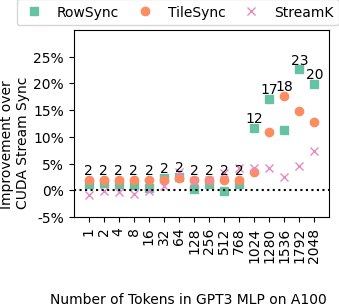
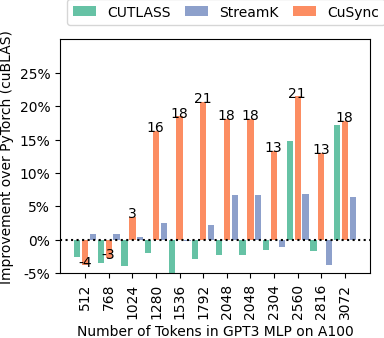
GPT3 A100 results and plot

Changed region(s): [[0.0, 0.0, 1.0, 1.0], [0.2655, 0.8529, 0.295, 0.9118], [0.0295, 0.0, 0.059, 0.0294]]

diff --git a/src/ml-bench/plots/plotGPT.py b/src/ml-bench/plots/plotGPT.py
@@ -115,6 +115,8 @@ while rowIdx < len(data):
             tileOverlap += [float(row[overlapInd])]
         elif row[syncTypeInd] == 'stridedsync':
             stridedTileOverlap += [float(row[overlapInd])]
+        elif row[syncTypeInd] == 'torch':
+            torchT += [float(row[torchInd])]
         rowIdx += 1
         i += 1
 
@@ -127,7 +129,7 @@ if __name__ == "__main__":
     # secFactor = 1e3 if (secs == "ms") else 1e6
     torchT = np.array(torchT)
     baseline = np.array(baseline)
-    ind = np.arange(len(baseline))
+    ind = np.arange(len(baseline)) * 3
     matmul1 = np.array(matmul1)
     matmul2 = np.array(matmul2)
     softmax = np.array(softmax)
@@ -139,19 +141,21 @@ if __name__ == "__main__":
     stdevTileOverlap = np.array(stdevTileOverlap)
     analyticalOverlapTimes = np.array(analyticalOverlapTimes)
 
-    cutlassSpeedup = (baseline - baseline)/baseline*100
-    rowSpeedup = (baseline - rowOverlap)/baseline*100
-    tileSpeedup = (baseline - tileOverlap)/baseline*100
-    streamKSpeedup = (baseline - streamK)/baseline*100
+    cutlassSpeedup = (torchT - baseline)/torchT*100
+    rowSpeedup = (torchT - rowOverlap)/torchT*100
+    tileSpeedup = (torchT - tileOverlap)/torchT*100
+    streamKSpeedup = (torchT - streamK)/torchT*100
     
     print(streamKSpeedup)
-    for i in range(len(rowSpeedup)):
-        if rowSpeedup[i] < -2:
-            rowSpeedup[i]= -2
-        if streamKSpeedup[i] < -5:
-            streamKSpeedup[i] = (0.1 * i)
-        if tileSpeedup[i] < 0:
-            tileSpeedup[i] = 2
+    # for i in range(len(rowSpeedup)):
+    #     if rowSpeedup[i] < -2:
+    #         rowSpeedup[i]= -2
+    #     if streamKSpeedup[i] < -5:
+    #         streamKSpeedup[i] = (0.1 * i)
+    #     if tileSpeedup[i] < 0:
+    #         tileSpeedup[i] = 2
+    
+    cusyncSpeedup = np.maximum(rowSpeedup, tileSpeedup)
 
     # print(rowSpeedup)
     # print(tileSpeedup)
@@ -159,24 +163,27 @@ if __name__ == "__main__":
 
     # analyticalSpeedup = baseline/analyticalOverlapTimes
     fig, ax2 = plt.subplots(1,1,sharex=True)
-    p1 = ax2.plot(ind, rowSpeedup,'s',color=colors[0])
-    p2 = ax2.plot(ind, tileSpeedup,'o',color=colors[1])
+    p0 = ax2.bar(ind, cutlassSpeedup, color=colors[0])
+    p1 = ax2.bar(ind+1, cusyncSpeedup,color=colors[1])
+    p2 = ax2.bar(ind+2, streamKSpeedup,color=colors[2])
 
-    if attention_or_mlp == "attention":
-        stridedTileSpeedup = (baseline - stridedTileOverlap)/baseline * 100
-        p3 = ax2.plot(ind, stridedTileSpeedup,'v',color=colors[2])
-        print(stridedTileSpeedup)
-        for i, f in enumerate(np.maximum(np.maximum(rowSpeedup, tileSpeedup), stridedTileSpeedup)):
-            ax2.text(i, f+1, "%.0f"%round(f, 0), color = 'black', ha = 'center', rotation=0)
-    else:
-        for i, f in enumerate(np.maximum(rowSpeedup, tileSpeedup)):
-            ax2.text(i, f+1, "%.0f"%round(f,0), color = 'black', ha = 'center', rotation=0)
-    p4 = ax2.plot(ind, streamKSpeedup, 'x',color=colors[3])
+    # if attention_or_mlp == "attention":
+    #     stridedTileSpeedup = (baseline - stridedTileOverlap)/baseline * 100
+    #     p3 = ax2.plot(ind, stridedTileSpeedup,'v',color=colors[2])
+    #     print(stridedTileSpeedup)
+    #     for i, f in enumerate(np.maximum(np.maximum(rowSpeedup, tileSpeedup), stridedTileSpeedup)):
+    #         ax2.text(i, f+1, "%.0f"%round(f, 0), color = 'black', ha = 'center', rotation=0)
+    # else:
+    # for i, f in enumerate(cusyncSpeedup):
+    #     ax2.text(i*2+2, f+1, "%.0f"%round(f,0), color = 'black', ha = 'center', rotation=0)
+    
+    # p4 = ax2.plot(ind, streamKSpeedup, 'x',color=colors[3])
  
     # p3 = ax2.plot(list(range(0, len(data)//2)), analyticalSpeedup)
     
-    # for bar1, d in zip(p3, fastkrontimes):
-    #     ax2.text(bar1.get_x()+bar1.get_width()/2, (bar1.get_height())/2, "%.2f %s"%(d, secs), color = 'black', ha = 'center', va = 'center', rotation=90, fontsize='large')
+    for bar1, d in zip(p1, cusyncSpeedup):
+        ax2.text(bar1.get_x()+bar1.get_width()/2-0.05, bar1.get_height()+0.5, "%.0f"%(round(d,0)), 
+        color = 'black', ha = 'center', va = 'center', rotation=0)
 
     # for bar1, speedup in zip(p3, fastkronspeedup):
     #     ax2.text(bar1.get_x()+bar1.get_width()/2+0.04, bar1.get_height()+0.05, r"%.2f$\times$"%(1/speedup), color = 'black', ha = 'center', va = 'center', rotation=0, fontsize='large')
@@ -184,8 +191,8 @@ if __name__ == "__main__":
     #     plt.ylim(0.6, 1.3)
     #     plt.yticks([0.6+0.1*i for i in range(0, 7)])
     # else:
-    ax2.margins(0.02)
-    max_speedup = max([np.amax(rowSpeedup), np.amax(tileSpeedup), np.amax(streamKSpeedup)])
+    # ax2.margins(0.02)
+    max_speedup = max([np.amax(cusyncSpeedup), np.amax(streamKSpeedup)])
     max_speedup = int(((max_speedup+10-1)//10)*10)
     plt.ylim(-5, max_speedup)
     plt.yticks(ticks=[-5+5*i for i in range(0, max_speedup//5+1)],
@@ -193,21 +200,21 @@ if __name__ == "__main__":
     # ax2.yaxis.set_major_formatter(mtick.PercentFormatter(decimals=None))
     # ax2.set_yticklabels(["%d%%"%(-5+5*i) for i in range(0, 9)])
     # plt.yticks(["%d%(-5+5*i) for i in range(0, 7)])
-    plt.xlim(-1,ind[-1]+1)
+    # plt.xlim(-1,ind[-1]+1)
     # plt.title('Contribution by the teams')
     plt.axhline(0, color='black', ls='dotted')
     # plt.yticks(np.arange(0, 1.25, 0.25))
     if attention_or_mlp == "mlp":
         xt = list(m)
-        plt.xticks(ind, xt, rotation=90)
+        plt.xticks(ind+1, xt, rotation=90)
         
-        plt.ylabel('Improvement over \nCUDA Stream Sync')
-        ax2.get_yaxis().set_label_coords(-0.17,0.4)
+        plt.ylabel('Improvement over PyTorch (cuBLAS)')
+        # ax2.get_yaxis().set_label_coords(-0.17,0.4)
         plt.xlabel("Number of Tokens in %s MLP on A100"%(model.upper()))
-        ax2.get_xaxis().set_label_coords(0.45,-0.4)
-        plt.legend((p1[0], p2[0], p4[0]), 
-                   ('RowSync', 'TileSync', 'StreamK'),
-                   loc='upper left', bbox_to_anchor=(-0.25, 1.20),
+        # ax2.get_xaxis().set_label_coords(0.45,-0.4)
+        plt.legend((p0[0], p2[0], p1[0]),
+                   ('CUTLASS', 'StreamK', 'CuSync'),
+                   loc='upper left', bbox_to_anchor=(0.0, 1.20),
                    ncol=4,columnspacing=1,handlelength=1.7)
     else:
         ax2.get_yaxis().set_visible(False)
@@ -230,10 +237,10 @@ if __name__ == "__main__":
     # if only_one_h:
     # else:
     #     fig.set_size_inches(8.5, 2.5)
-    if attention_or_mlp == "mlp" and model == "gpt3":
-        fig.set_size_inches(3.3, 2.4)
-    else:
-        fig.set_size_inches(3.2, 2.4)
+    # if attention_or_mlp == "mlp" and model == "gpt3":
+    fig.set_size_inches(4, 3)
+    # else:
+    #     fig.set_size_inches(3.2, 2.4)
         # ax.set_xticks([])
     FIGURES_DIR = "./"
     fig.savefig(FIGURES_DIR+pdf_name,bbox_inches='tight',pad_inches=0)

diff --git a/src/ml-bench/transformer/tile_sizes_db.py b/src/ml-bench/transformer/tile_sizes_db.py
@@ -844,16 +844,16 @@ llama_attention_v100 = {
   }
 
 gpt3_mlp_a100 = {
-  2048: {"TileSizes" : [[256, 128, 64, 64, 64, 64], [256, 128, 64, 64, 64, 64]],
+  4096: {"TileSizes" : [[128, 256, 32, 64, 64, 32], [128, 256, 32, 64, 64, 32]],
     "NumStages" : 3,
     "baseline": {"split_ks": [1,1]},
     "rowsync": {
-      "TileSizes" : [[256, 128, 64, 64, 64, 64], [256, 128, 64, 64, 64, 64]],
+      "TileSizes" : [[256, 128, 32, 64, 64, 32], [256, 128, 32, 64, 64, 32]],
       "split_ks": [1,1],
       "NumStages" : 3,
     },
     "tilesync": {"split_ks": [1,1],
-                "TileSizes" : [[256, 128, 64, 64, 64, 64], [256, 128, 64, 64, 64, 64]],
+                "TileSizes" : [[256, 128, 32, 64, 64, 32], [256, 128, 32, 64, 64, 32]],
                   "split_ks": [1,1],
                   "NumStages" : 3,
                 "AvoidCustomOrder": False,
@@ -861,11 +861,33 @@ gpt3_mlp_a100 = {
                 "ReorderTileLoads": True,
                 "NoAtomicAdd": True}
   },
-  1792: {"TileSizes" : [[256, 128, 32, 64, 64, 32], [256, 128, 32, 64, 64, 32]],
+  2048: {"TileSizes" : [[128, 256, 32, 64, 64, 32], [128, 256, 32, 64, 64, 32]],
+    "NumStages" : 3,
+    "baseline": {"split_ks": [1,1]},
+    "rowsync": {
+      "TileSizes" : [[128, 256, 64, 64, 64, 64], [128, 256, 64, 64, 64, 64]],
+      "split_ks": [1,1],
+      "NumStages" : 3,
+    },
+    "tilesync": {"split_ks": [1,1],
+                "TileSizes" : [[128, 256, 64, 64, 64, 64], [128, 256, 64, 64, 64, 64]],
+                  "split_ks": [1,1],
+                  "NumStages" : 3,
+                "AvoidCustomOrder": False,
+                "AvoidWaitKernel": False,
+                "ReorderTileLoads": True,
+                "NoAtomicAdd": True}
+  },
+  1792: {"TileSizes" : [[128, 256, 32, 64, 64, 32], [128, 256, 32, 64, 64, 32]],
     "NumStages" : 5,
     "baseline": {"split_ks": [2,1]},
-    "rowsync": {"split_ks": [2,1]},
-    "tilesync": {"split_ks": [2,1],
+    "rowsync": {"split_ks": [1,1],
+                "TileSizes" : [[128, 256, 32, 64, 64, 32], [128, 256, 32, 64, 64, 32]],
+                "NumStages" : 5
+                },
+    "tilesync": {"split_ks": [1,1],
+                "TileSizes" : [[128, 256, 32, 64, 64, 32], [128, 256, 32, 64, 64, 32]],
+                "NumStages" : 5,
                 "AvoidCustomOrder": False,
                 "AvoidWaitKernel": False,
                 "ReorderTileLoads": True,
@@ -1064,6 +1086,20 @@ gpt3_mlp_a100 = {
 }
 
 llama_mlp_a100 = {
+    4096: {
+      "TileSizes" : [[256, 128, 64, 64, 64, 64], [256, 128, 64, 64, 64, 64]],
+      "NumStages": [3, 3],
+      "baseline": {"split_ks": [1,1]},
+      "rowsync": {"split_ks": [1,1],
+                  "TileSizes" : [[256, 128, 64, 64, 64, 64], [256, 128, 64, 64, 64, 64]],
+                  "NumStages": [3, 3]},
+      "tilesync": {"split_ks": [1,1],
+                  "TileSizes" : [[256, 128, 64, 64, 64, 64], [256, 128, 64, 64, 64, 64]],
+                  "NumStages": [3, 3],
+                  "AvoidCustomOrder": False,
+                  "AvoidWaitKernel": False,
+                  "ReorderTileLoads": True,}
+    },
     2048: {
       "TileSizes" : [[128, 128, 32, 64, 64, 32], [256, 128, 32, 64, 64, 32]],
       "NumStages": [3, 3],
@@ -1079,14 +1115,14 @@ llama_mlp_a100 = {
                   "ReorderTileLoads": True,}
     },
     1792: {
-      "TileSizes" : [[128, 128, 32, 64, 64, 32], [256, 128, 32, 64, 64, 32]],
-      "NumStages": [3, 3],
+      "TileSizes" : [[128, 256, 32, 64, 64, 32], [128, 256, 32, 64, 64, 32]],
+      "NumStages": [4, 4],
       "baseline": {"split_ks": [1,1]},
       "rowsync": {"split_ks": [1,1],
-                  "TileSizes" : [[128, 128, 32, 64, 64, 32], [128, 128, 32, 64, 64, 32]],
+                  "TileSizes" : [[128, 256, 32, 64, 64, 32], [128, 256, 32, 64, 64, 32]],
                   "NumStages": [4, 4]},
       "tilesync": {"split_ks": [1,1],
-                  "TileSizes" : [[128, 128, 32, 64, 64, 32], [128, 128, 32, 64, 64, 32]],
+                  "TileSizes" : [[128, 256, 32, 64, 64, 32], [128, 256, 32, 64, 64, 32]],
                   "NumStages": [4, 4],
                   "AvoidCustomOrder": False,
                   "AvoidWaitKernel": False,
@@ -1098,6 +1134,8 @@ llama_mlp_a100 = {
       "baseline": {"split_ks": [2,1]},
       "rowsync": {"split_ks": [1,1]},
       "tilesync": {"split_ks": [1,1],
+                  "TileSizes" : [[128, 256, 32, 64, 64, 32], [128, 256, 32, 64, 64, 32]],
+                  "NumStages": [5, 5],
                   "AvoidCustomOrder": False,
                   "AvoidWaitKernel": False,
                   "ReorderTileLoads": True,}
@@ -1120,7 +1158,7 @@ llama_mlp_a100 = {
     },
     1024: {"TileSizes" : [[128, 128, 32, 64, 64, 32], [128, 128, 32, 64, 64, 32]],
       "NumStages": [3, 3],
-      "baseline": {"split_ks": [2,1]},
+      "baseline": {"split_ks": [3,1]},
       "rowsync": {"split_ks": [1,1]},
       "tilesync": {"split_ks": [1,1],
                   "AvoidCustomOrder": False,

diff --git a/src/ml-bench/transformer/eval_mlp.py b/src/ml-bench/transformer/eval_mlp.py
@@ -3,6 +3,7 @@ import re
 import sys
 import os
 import tile_sizes_db
+import time
 
 attention_or_mlp = sys.argv[1].lower()
 model = sys.argv[2].lower()
@@ -225,7 +226,7 @@ if 'stridedsync' in policies and attention_or_mlp == 'mlp':
 deleteFiles(policies+['baseline'], attention_or_mlp)
 
 if attention_or_mlp == "mlp":
-  cases = [1,2,4,8,16,32,64,128,256,512,768,1024,1280,1536,1792,2048]
+  cases = [512,768,1024,1280,1536,1792,2048] + [2048+256*i for i in range(1, 5)] ##1,2,4,8,16,32,64,128,256, # 
 else:
   #cases = [(0,256), (0,512), (0, 1024), (0, 2048), (1024,1), (1024,4), (2048,1), (2048,4)]
   cases = [(512,1),(512,2), (512,4), (1024,1), (1024,2), (1024,4), (2048,1), (2048,2), (2048,4)]
@@ -244,9 +245,12 @@ for case in cases:
   if attention_or_mlp == "attention":
     caseTiles = tiles[seq][m]
   else:
-    caseTiles = tiles[m]
+    if m > 2048:
+      caseTiles = tiles[4096]
+    else:
+      caseTiles = tiles[m]
 
-  if False:
+  if True:
     if attention_or_mlp == "attention":
       (s, o) = subprocess.getstatusoutput(f"python3 torch-baselines/torchAttention.py {m} {int(H/8)} {H} {H}")
     else:
@@ -258,19 +262,21 @@ for case in cases:
       ctime = o
       cublasTimes[m] = ctime
 
-    print(f'{m} & {seq} & {H} & {"torch"} & {"%.2f"%float(ctime)}')
-    continue
+    result_row = f'{m} & {seq} & {H} & {"torch"} & {"%.2f"%float(ctime)}'
+    print(result_row)
+    results_csv += result_row + "\n"
+
   if True:
-    genAndMakeStreamK(tiles[m], 0)
+    genAndMakeStreamK(caseTiles, 0)
     streamk_command = buildDir("streamk-eval") + f" --m={m} --alpha=1 --beta=0 --iterations=20 "
-    (s, o) = subprocess.getstatusoutput(streamk_command + f"--n={int(2*FFN if model=='llama' else FFN)} --k={H} " + f"--split={tiles[m]['baseline']['split_ks'][0]}")
+    (s, o) = subprocess.getstatusoutput(streamk_command + f"--n={int(2*FFN if model=='llama' else FFN)} --k={H} " + f"--split={caseTiles['baseline']['split_ks'][0]}")
     if s != 0:
       print("StreamK Error")
       print(o)
 
     firstGeMMStreamK = getStreamKTimes(o)
-    genAndMakeStreamK(tiles[m], 1)
-    (s, o) = subprocess.getstatusoutput(streamk_command + f"--n={H} --k={int(FFN)} " + f"--split={tiles[m]['baseline']['split_ks'][1]}")
+    genAndMakeStreamK(caseTiles, 1)
+    (s, o) = subprocess.getstatusoutput(streamk_command + f"--n={H} --k={int(FFN)} " + f"--split={caseTiles['baseline']['split_ks'][1]}")
     if s != 0:
       print("StreamK Error")
       print(o)
@@ -335,6 +341,7 @@ for case in cases:
     result_row = f'{m} & {seq} & {H} & {syncPolicy} & {"%.2f"%avg(bTimeTotal)} & {"%.2f"%stdev(bTimeTotal)} & {"%.2f"%avg(bTimeMatmul1)} & {"%.2f"%avg(bTimeMatmul2)} & {"%.2f"%avg(otime)} & {"%.2f"%stdev(otime)} & {"%.2f"%(100 - avg(otime)/avg(bTimeTotal)*100)}'
     results_csv += result_row + "\n"
     print(result_row)
+  time.sleep(5)
 
 with open(os.path.join(resultsDir(""), f"{attention_or_mlp}-{model}-{arch}.csv"), "w") as f:
   f.write(results_csv)
